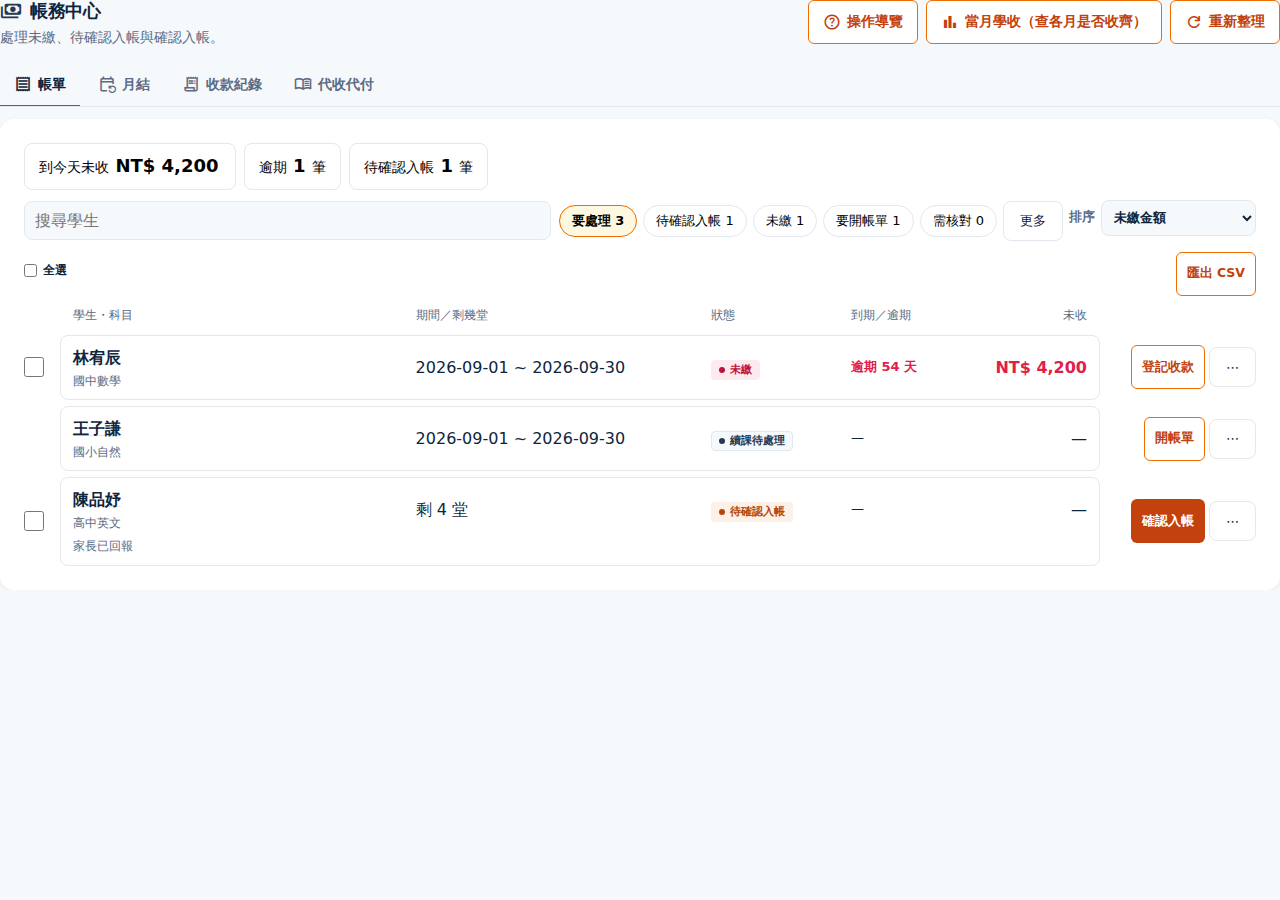
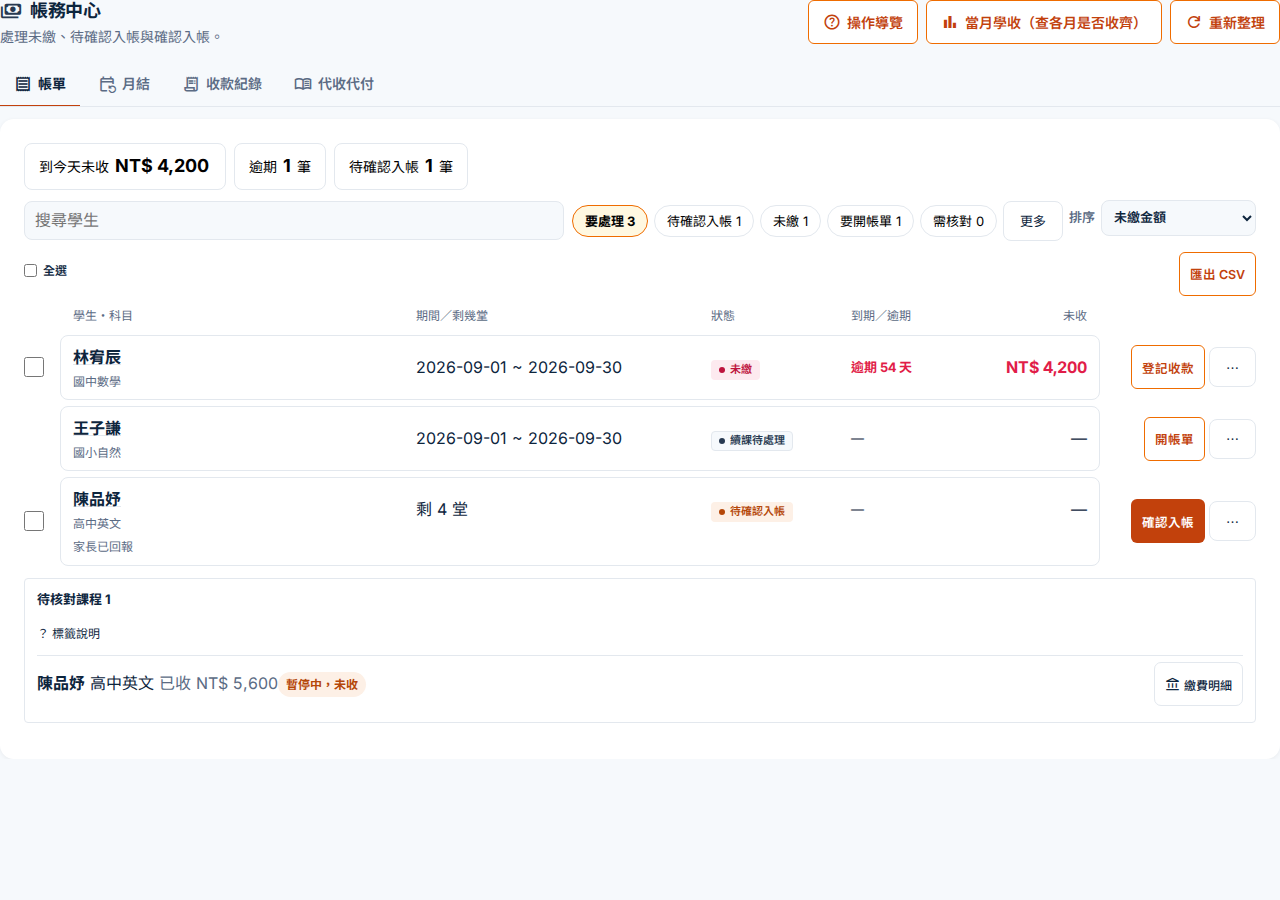
fix(billing): 待核對課程 strip keeps the #348 tags, help note and counts
Claude-Session: https://claude.ai/code/session_013w92pM8WYe3NNNkfy1JsZv

diff --git a/frontend/src/pages/TuitionCollectionPage.vue b/frontend/src/pages/TuitionCollectionPage.vue
@@ -304,10 +304,21 @@
 
     <!-- 已結清 is the 已收 filter of the bill list now. What only the old settled table offered, 已核對 / 到課程處理, stays here for 待核對 courses. -->
     <section v-if="activeAccountingTab === 'students' && reviewRows.length" class="tc-review-strip" data-testid="tc-review-strip" aria-label="待核對課程">
-      <h3 class="tc-review-strip__title">待核對課程 {{ reviewRows.length }}</h3>
+      <h3 class="tc-review-strip__title">待核對課程 {{ reviewRows.length }}<span v-if="reviewCounts.legacy || reviewCounts.exception" class="tc-review-strip__counts" data-testid="tc-review-counts">　舊制無帳單 {{ reviewCounts.legacy }}・例外待處理 {{ reviewCounts.exception }}</span></h3>
+      <details class="tc-review-strip__help" data-testid="tc-review-help">
+        <summary>？ 標籤說明</summary>
+        <p role="note" aria-label="帳務標籤說明" class="tc-summary-note">
+          舊制無帳單：課程已標記繳費，但目前沒有有效帳單。例外待處理：至少一張有效帳單的淨收款超過帳單金額。
+          請從同一列的「繳費明細」查看既有紀錄，再與帳務負責人核對；標籤本身不會自動處理款項。
+        </p>
+      </details>
       <div v-for="row in reviewRows" :key="row.student_class_id" class="tc-review-strip__row">
         <div class="tc-review-strip__who">
           <strong>{{ row.student_name }}</strong> {{ row.subject }}
+          <span class="text-light">已收 {{ formatCurrency(row.paid_amount || 0) }}<template v-if="Number(row.overpaid_amount) > 0">・多收 {{ formatCurrency(row.overpaid_amount) }}</template></span>
+          <span v-if="row.legacy_paid_without_invoice" class="acct-chip acct-chip--backfill">舊制無帳單</span>
+          <span v-if="row.has_exception" class="acct-chip acct-chip--prepaid">例外待處理</span>
+          <span v-if="row.pending_reconciliation" class="acct-chip acct-chip--pending">{{ row.closed_reason ? ENDED_PENDING_LABEL : PAUSED_PENDING_LABEL }}</span>
           <span v-if="row.payment_review_required" class="acct-chip acct-chip--pending" :title="REVIEW_REQUIRED_LABEL">{{ REVIEW_REQUIRED_SHORT_LABEL }}</span>
           <template v-if="row.payment_review_required">
             <div v-for="r in reviewReasonFixes(row.review_reasons)" :key="r.code" class="text-light" :data-testid="`tc-review-fix-${row.student_class_id}-${r.code}`">需核對：{{ r.label }}。怎麼處理：{{ r.text }}</div>
@@ -703,7 +714,8 @@ const accountingLoading = ref(false);
 const accountingExporting = ref(false);
 const accountingError = ref('');
 const accountingRows = ref([]);
-const reviewRows = ref([]); // 待核對 courses, from /accounting/settled-courses
+const reviewRows = ref([]);
+const reviewCounts = computed(() => ({ legacy: reviewRows.value.filter((r) => r.legacy_paid_without_invoice).length, exception: reviewRows.value.filter((r) => r.has_exception).length })); // 待核對 courses, from /accounting/settled-courses
 const accountingSummary = ref({
   total_count: 0,
   cash_total: 0,
@@ -1315,7 +1327,7 @@ async function loadReviewCourses() {
     const resp = await authedFetch(`/api/v1/accounting/settled-courses?${params}`, { headers: { Accept: 'application/json' } }, token);
     if (!resp.ok) return; // the strip is an extra; the bill list stays usable
     const json = await resp.json();
-    reviewRows.value = (Array.isArray(json.data) ? json.data : []).filter((r) => r.payment_review_required);
+    reviewRows.value = (Array.isArray(json.data) ? json.data : []).filter((r) => r.payment_review_required || r.pending_reconciliation || r.legacy_paid_without_invoice || r.has_exception || Number(r.overpaid_amount) > 0);
   } catch {
     reviewRows.value = [];
   }
@@ -1917,6 +1929,8 @@ loadCampusStudents();
 .acct-warn { color: var(--ds-danger-text); }
 .tc-review-strip { border: 1px solid var(--ds-border); border-radius: var(--ds-radius-sm); padding: 10px 12px; margin: 12px 0; }
 .tc-review-strip__title { margin: 0 0 8px; font-size: var(--ds-font-size-md); }
+.tc-review-strip__help { margin-bottom: 6px; font-size: var(--ds-font-size-sm); }
+.tc-review-strip__help summary { cursor: pointer; min-height: 32px; display: inline-flex; align-items: center; }
 .tc-review-strip__row { display: flex; flex-wrap: wrap; gap: 8px; justify-content: space-between; align-items: center; padding: 6px 0; border-top: 1px solid var(--ds-border); }
 .acct-filter-actions {
   display: flex;

diff --git a/frontend/e2e/tuition-collection-clarity.spec.js b/frontend/e2e/tuition-collection-clarity.spec.js
@@ -29,6 +29,48 @@ const rows = [
   },
 ];
 
+test('In-App348: settled labels explain existing meaning without adding payment mutations (待核對課程 strip)', async ({ page }) => {
+  await installMock(page);
+  await page.route('**/api/v1/accounting/settled-courses**', route => route.fulfill({
+    status: 200, contentType: 'application/json', body: JSON.stringify({
+      data: [
+        { ...settledRows[0], legacy_paid_without_invoice: true },
+        { ...settledRows[1], pending_reconciliation: false, has_exception: true, overpaid_amount: 200 },
+      ],
+      summary: { course_count: 2, legacy_count: 1, exception_count: 1, paid_total: 9800, overpaid_total: 200, pending_reconciliation_count: 1 },
+    }),
+  }));
+  const writes = [];
+  page.on('request', request => { if (!['GET', 'HEAD'].includes(request.method())) writes.push(request.method() + ' ' + request.url()); });
+  for (const width of [390, 1280]) {
+    await page.setViewportSize({ width, height: 900 });
+    await page.goto('/tuition-collection-pilot-mount.html?mode=normal');
+    const strip = page.locator('[data-testid="tc-review-strip"]');
+    await expect(strip).toBeVisible();
+    await page.locator('[data-testid="tc-review-help"] summary').click();
+    const help = page.getByRole('note', { name: '帳務標籤說明' });
+    await expect(help).toBeVisible();
+    await expect(help).toContainText('舊制無帳單：課程已標記繳費，但目前沒有有效帳單');
+    await expect(help).toContainText('例外待處理：至少一張有效帳單的淨收款超過帳單金額');
+    await expect(help).toContainText('請從同一列的「繳費明細」查看既有紀錄，再與帳務負責人核對');
+    const box = await help.boundingBox();
+    expect(box.x).toBeGreaterThanOrEqual(0);
+    expect(box.x + box.width).toBeLessThanOrEqual(width);
+    await expect(page.locator('[data-testid="tc-review-counts"]')).toContainText('舊制無帳單 1・例外待處理 1');
+    const rows = strip.locator('.tc-review-strip__row');
+    await expect(rows).toHaveCount(2);
+    await expect(rows.first()).toContainText('舊制無帳單');
+    await expect(rows.last()).toContainText('例外待處理');
+    await expect(rows.first()).toContainText('4,200');
+    await expect(rows.last()).toContainText('5,600');
+    await expect(rows.last()).toContainText('多收');
+    await expect(strip.locator('button')).toHaveText(['account_balance繳費明細', 'account_balance繳費明細']);
+    expect(await page.evaluate(() => document.documentElement.scrollWidth <= window.innerWidth + 2)).toBe(true);
+    await page.screenshot({ path: path.join(outDir, `inapp348-label-help-${width}.png`), fullPage: true });
+  }
+  expect(writes).toEqual([]);
+});
+
 const accountingRows = [
   { report_id: 701, payment_date: '2026-09-08', receipt_no: 'AT-260908-0001', student_name: '林宥辰', subject: '國中數學', cash_amount: 0, transfer_amount: 4200, total_amount: 4200, confirmed_by_name: 'E2E 主任' },
   { report_id: 702, payment_date: '2026-09-07', receipt_no: 'AT-260907-0002', student_name: '陳品妤', subject: '高中英文', cash_amount: 5600, transfer_amount: 0, total_amount: 5600, confirmed_by_name: 'E2E 主任', is_prepaid: true },
